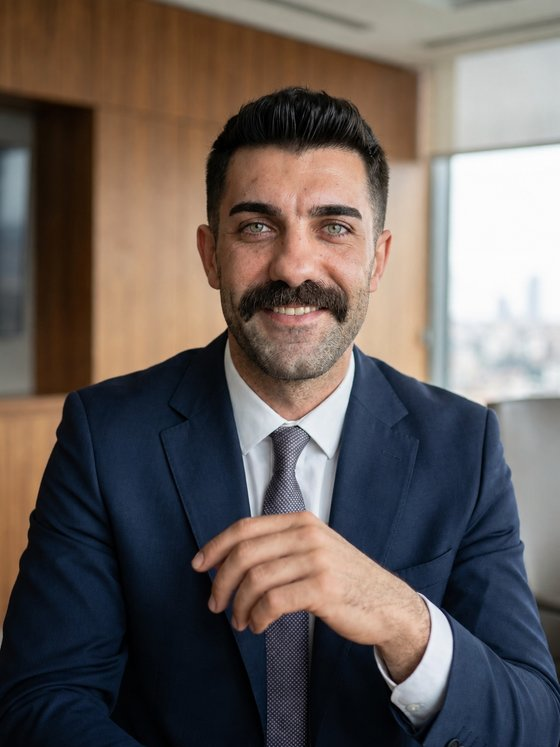
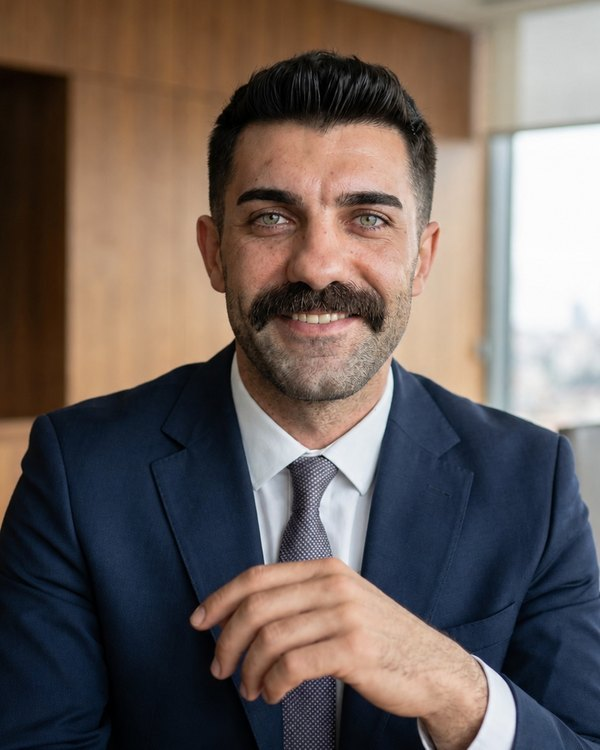
Dolu çok-bölümlü ana sayfa + board foto eşitleme + KEP gizle
- index.html: index-dolu (nav kısa yolları + kategoriler→referanslar#[sektör] + m²/ticker + iletişim + maskot widget tek kopya); self-host font, base64→assets (logo-mark 25KB), schema+adres, favicon
- yonetim: yeni muhammed.jpg + emin.jpg (600x750 eşitlenmiş) assets'e; Ali aynı; markup değişmedi
- KVKK: KEP adresi görünürden kaldırıldı (resmi belgede var); ünvan/MERSİS/sicil/adres/tel kaldı
- Harici çağrı yok, widget 7 sayfada tek kopya
- DOKUNMADIM: main (Patron onayı bekliyor)

diff --git a/index.html b/index.html
@@ -1,26 +1,18 @@
 <!DOCTYPE html>
-<html lang="tr">
-<head>
-<meta charset="UTF-8">
-<meta name="viewport" content="width=device-width, initial-scale=1.0">
-<title>Kurtköy &amp; Pendik Mekanik Tesisat, Doğalgaz ve İnşaat | Aldemir Grup</title>
-<meta name="description" content="Kurtköy & Pendik mekanik tesisat, doğalgaz, karot ve beton kesme. Daire, villa, plaza, otel, AVM ve fabrika projeleri. Aldemir Grup.">
-<meta name="theme-color" content="#15212B">
+<html lang="tr"><head><meta charset="UTF-8"><meta name="viewport" content="width=device-width, initial-scale=1.0">
+<title>Kurtköy & Pendik Mekanik Tesisat, Doğalgaz ve İnşaat | Aldemir Grup</title>
+<meta name="description" content="Kurtköy & Pendik mekanik tesisat, doğalgaz, su tesisatı, karot ve beton kesme. Daire, villa, plaza, otel, AVM ve fabrika projeleri. Aldemir Grup İnşaat · Mühendislik.">
 <link rel="canonical" href="https://aldemirglobal.com/">
-<meta property="og:type" content="website">
-<meta property="og:url" content="https://aldemirglobal.com/">
-<meta property="og:locale" content="tr_TR">
-<meta property="og:title" content="Kurtköy & Pendik Mekanik Tesisat, Doğalgaz ve İnşaat | Aldemir Grup">
-<meta property="og:description" content="Kurtköy & Pendik mekanik tesisat, doğalgaz, karot ve beton kesme. Aldemir Grup.">
-<meta property="og:image" content="https://aldemirglobal.com/assets/og-image.png">
-<meta property="og:image:width" content="1200">
-<meta property="og:image:height" content="630">
-<meta name="twitter:card" content="summary_large_image">
-<link rel="icon" href="/favicon.ico" sizes="any">
-<link rel="icon" type="image/png" href="/assets/favicon-48.png" sizes="48x48">
-<link rel="apple-touch-icon" href="/assets/apple-touch-icon.png">
+<meta name="robots" content="index,follow"><meta name="geo.region" content="TR"><meta name="theme-color" content="#1B2A36">
+<meta property="og:type" content="website"><meta property="og:locale" content="tr_TR">
+<meta property="og:title" content="Aldemir Grup · İnşaat · Mühendislik"><meta property="og:image" content="https://aldemirglobal.com/assets/og-image.png">
+
+
+<script type="application/ld+json">
+{"@context":"https://schema.org","@type":"GeneralContractor","name":"Aldemir Grup","legalName":"MSN Gayrimenkul Danışmanlık Turizm Ticaret Limited Şirketi","url":"https://aldemirglobal.com","telephone":"+90 534 839 78 83","email":"[email redacted]","image":"https://aldemirglobal.com/assets/og-image.png","address":{"@type":"PostalAddress","streetAddress":"Harmandere Mah. Ankara Cad. E Blok No:453E İç Kapı No:1","addressLocality":"Pendik","addressRegion":"İstanbul","addressCountry":"TR"},"areaServed":[{"@type":"Place","name":"Kurtköy"},{"@type":"Place","name":"Pendik"},{"@type":"Place","name":"İstanbul Anadolu Yakası"},{"@type":"Country","name":"Türkiye"}]}
+</script>
 <style>
-/* Self-host fontlar — Google Fonts CDN kaldırıldı (KVKK: yurt dışı aktarım yok) */
+/* Self-host fontlar (Google CDN kaldırıldı) */
 @font-face{font-family:'Montserrat';font-style:normal;font-weight:300;font-display:swap;src:url('/assets/fonts/montserrat-300-latin.woff2') format('woff2');unicode-range:U+0000-00FF,U+0131,U+0152-0153,U+02BB-02BC,U+02C6,U+02DA,U+02DC,U+0304,U+0308,U+0329,U+2000-206F,U+2074,U+20AC,U+2122,U+2191,U+2193,U+2212,U+2215,U+FEFF,U+FFFD;}
 @font-face{font-family:'Montserrat';font-style:normal;font-weight:300;font-display:swap;src:url('/assets/fonts/montserrat-300-latin-ext.woff2') format('woff2');unicode-range:U+0100-02BA,U+02BD-02C5,U+02C7-02CC,U+02CE-02D7,U+02DD-02FF,U+0304,U+0308,U+0329,U+1D00-1DBF,U+1E00-1E9F,U+1EF2-1EFF,U+2020,U+20A0-20AB,U+20AD-20C0,U+2113,U+2C60-2C7F,U+A720-A7FF;}
 @font-face{font-family:'Montserrat';font-style:normal;font-weight:400;font-display:swap;src:url('/assets/fonts/montserrat-400-latin.woff2') format('woff2');unicode-range:U+0000-00FF,U+0131,U+0152-0153,U+02BB-02BC,U+02C6,U+02DA,U+02DC,U+0304,U+0308,U+0329,U+2000-206F,U+2074,U+20AC,U+2122,U+2191,U+2193,U+2212,U+2215,U+FEFF,U+FFFD;}
@@ -35,110 +27,209 @@
 @font-face{font-family:'Montserrat';font-style:normal;font-weight:800;font-display:swap;src:url('/assets/fonts/montserrat-800-latin-ext.woff2') format('woff2');unicode-range:U+0100-02BA,U+02BD-02C5,U+02C7-02CC,U+02CE-02D7,U+02DD-02FF,U+0304,U+0308,U+0329,U+1D00-1DBF,U+1E00-1E9F,U+1EF2-1EFF,U+2020,U+20A0-20AB,U+20AD-20C0,U+2113,U+2C60-2C7F,U+A720-A7FF;}
 @font-face{font-family:'Cormorant';font-style:normal;font-weight:500;font-display:swap;src:url('/assets/fonts/cormorant-500-latin.woff2') format('woff2');unicode-range:U+0000-00FF,U+0131,U+0152-0153,U+02BB-02BC,U+02C6,U+02DA,U+02DC,U+0304,U+0308,U+0329,U+2000-206F,U+2074,U+20AC,U+2122,U+2191,U+2193,U+2212,U+2215,U+FEFF,U+FFFD;}
 @font-face{font-family:'Cormorant';font-style:normal;font-weight:500;font-display:swap;src:url('/assets/fonts/cormorant-500-latin-ext.woff2') format('woff2');unicode-range:U+0100-02BA,U+02BD-02C5,U+02C7-02CC,U+02CE-02D7,U+02DD-02FF,U+0304,U+0308,U+0329,U+1D00-1DBF,U+1E00-1E9F,U+1EF2-1EFF,U+2020,U+20A0-20AB,U+20AD-20C0,U+2113,U+2C60-2C7F,U+A720-A7FF;}
+@font-face{font-family:'Cormorant';font-style:normal;font-weight:600;font-display:swap;src:url('/assets/fonts/cormorant-600-latin.woff2') format('woff2');unicode-range:U+0000-00FF,U+0131,U+0152-0153,U+02BB-02BC,U+02C6,U+02DA,U+02DC,U+0304,U+0308,U+0329,U+2000-206F,U+2074,U+20AC,U+2122,U+2191,U+2193,U+2212,U+2215,U+FEFF,U+FFFD;}
+@font-face{font-family:'Cormorant';font-style:normal;font-weight:600;font-display:swap;src:url('/assets/fonts/cormorant-600-latin-ext.woff2') format('woff2');unicode-range:U+0100-02BA,U+02BD-02C5,U+02C7-02CC,U+02CE-02D7,U+02DD-02FF,U+0304,U+0308,U+0329,U+1D00-1DBF,U+1E00-1E9F,U+1EF2-1EFF,U+2020,U+20A0-20AB,U+20AD-20C0,U+2113,U+2C60-2C7F,U+A720-A7FF;}
 @font-face{font-family:'Cormorant';font-style:italic;font-weight:500;font-display:swap;src:url('/assets/fonts/cormorant-500i-latin.woff2') format('woff2');unicode-range:U+0000-00FF,U+0131,U+0152-0153,U+02BB-02BC,U+02C6,U+02DA,U+02DC,U+0304,U+0308,U+0329,U+2000-206F,U+2074,U+20AC,U+2122,U+2191,U+2193,U+2212,U+2215,U+FEFF,U+FFFD;}
 @font-face{font-family:'Cormorant';font-style:italic;font-weight:500;font-display:swap;src:url('/assets/fonts/cormorant-500i-latin-ext.woff2') format('woff2');unicode-range:U+0100-02BA,U+02BD-02C5,U+02C7-02CC,U+02CE-02D7,U+02DD-02FF,U+0304,U+0308,U+0329,U+1D00-1DBF,U+1E00-1E9F,U+1EF2-1EFF,U+2020,U+20A0-20AB,U+20AD-20C0,U+2113,U+2C60-2C7F,U+A720-A7FF;}
 
-:root{--paper:#F6F2E9;--navy:#1B2A36;--navy2:#23323D;--antrasit:#15212B;--gold:#C9A876;--gold-lt:#E4C78E;--bronz:#6E5436;--line-d:rgba(228,199,142,.18);--gold-grad:linear-gradient(135deg,#E4C78E 0%,#C9A876 100%)}
-*{margin:0;padding:0;box-sizing:border-box}
-body{font-family:'Montserrat',sans-serif;background:var(--antrasit);color:var(--paper);-webkit-font-smoothing:antialiased;line-height:1.6;min-height:100dvh;display:flex;flex-direction:column}
-::selection{background:var(--gold);color:var(--navy)}
-a{color:inherit;text-decoration:none}
-.stage{flex:1;display:flex;flex-direction:column;align-items:center;justify-content:center;text-align:center;padding:44px 24px 30px;position:relative;overflow:hidden;background:radial-gradient(ellipse 72% 62% at 50% 30%,#243643 0%,#1B2A36 64%,#15212B 100%)}
-.stage::before{content:'';position:absolute;inset:0;background-image:linear-gradient(var(--line-d) 1px,transparent 1px),linear-gradient(90deg,var(--line-d) 1px,transparent 1px);background-size:64px 64px;-webkit-mask-image:radial-gradient(ellipse 64% 60% at 50% 34%,#000,transparent 78%);mask-image:radial-gradient(ellipse 64% 60% at 50% 34%,#000,transparent 78%);opacity:.45}
-.inner{position:relative;z-index:2;max-width:760px;width:100%}
-.badge{display:inline-flex;align-items:center;gap:9px;font-size:11px;letter-spacing:.26em;text-transform:uppercase;font-weight:600;color:var(--gold-lt);background:rgba(201,168,118,.1);border:1px solid rgba(201,168,118,.38);padding:7px 16px;border-radius:40px;margin-bottom:26px}
-.badge .dot{width:8px;height:8px;border-radius:50%;background:var(--gold-grad);animation:pulse 2.2s infinite}
-@keyframes pulse{0%{box-shadow:0 0 0 0 rgba(201,168,118,.55)}70%{box-shadow:0 0 0 9px rgba(201,168,118,0)}100%{box-shadow:0 0 0 0 rgba(201,168,118,0)}}
-.logo{width:min(300px,62vw);margin:0 auto 24px;filter:drop-shadow(0 16px 40px rgba(0,0,0,.55));animation:floaty 7s ease-in-out infinite}
-@keyframes floaty{0%,100%{transform:translateY(0)}50%{transform:translateY(-8px)}}
-
-/* USTA KARŞILAMA */
-.usta{display:flex;align-items:center;gap:22px;justify-content:center;background:rgba(35,50,61,.5);border:1px solid var(--line-d);border-radius:14px;padding:18px 24px;max-width:560px;margin:0 auto 26px;text-align:left;position:relative}
-.usta::before{content:'';position:absolute;top:0;left:0;width:100%;height:3px;background:var(--gold-grad);border-radius:14px 14px 0 0}
-.usta .ph{width:84px;height:84px;border-radius:50%;overflow:hidden;flex-shrink:0;border:2px solid var(--gold);background:radial-gradient(circle,#2b3d4a,#1B2A36);display:flex;align-items:center;justify-content:center;position:relative}
-.usta .ph img{width:100%;height:100%;object-fit:cover;object-position:center 20%}
-.usta .ph svg{width:46px;height:46px;color:var(--gold);opacity:.6}
-.usta .ph .tag{position:absolute;bottom:-1px;left:0;width:100%;font-size:7px;letter-spacing:.06em;text-transform:uppercase;color:var(--gold-lt);background:rgba(15,20,25,.8);padding:2px 0;text-align:center}
-.usta .say .hi{font-family:'Cormorant';font-style:italic;font-size:16px;color:var(--gold-lt)}
-.usta .say p{font-size:14px;color:rgba(246,242,233,.85);font-weight:300;margin-top:3px}
-.usta .say p b{color:var(--paper);font-weight:600}
-
+:root{--paper:#F6F2E9;--white:#FCFAF5;--navy:#1B2A36;--navy2:#23323D;--antrasit:#15212B;--ink:#15212B;--gold:#C9A876;--gold-lt:#E4C78E;--bronz:#6E5436;--line:rgba(27,42,54,.10);--line-d:rgba(228,199,142,.18);--gold-grad:linear-gradient(135deg,#E4C78E 0%,#C9A876 100%)}
+*{margin:0;padding:0;box-sizing:border-box}html{scroll-behavior:smooth}
+body{font-family:'Montserrat',sans-serif;background:var(--paper);color:var(--ink);-webkit-font-smoothing:antialiased;line-height:1.65;overflow-x:hidden}
+::selection{background:var(--gold);color:var(--navy)}a{color:inherit;text-decoration:none}
+.wrap{max-width:1120px;margin:0 auto;padding:0 34px}
+.gold-text{background:var(--gold-grad);-webkit-background-clip:text;background-clip:text;-webkit-text-fill-color:transparent}
+.eyebrow{font-size:11px;letter-spacing:.4em;text-transform:uppercase;color:var(--bronz);font-weight:600}
+.stripe{width:74px;height:8px;position:relative;margin:16px 0}
+.stripe::before{content:'';position:absolute;top:0;left:0;width:74px;height:2px;background:var(--gold-grad)}
+.stripe::after{content:'';position:absolute;top:5px;left:0;width:44px;height:2px;background:var(--navy)}
+.stripe.on-dark::after{background:rgba(246,242,233,.5)}.stripe.center{margin-left:auto;margin-right:auto}
+/* NAV — her yöne kısa yol */
+nav{position:sticky;top:0;z-index:50;display:flex;align-items:center;justify-content:space-between;padding:12px 34px;background:rgba(21,33,43,.95);backdrop-filter:blur(12px);border-bottom:1px solid var(--line-d)}
+nav .brand{display:flex;align-items:center;gap:10px;font-weight:800;letter-spacing:.14em;font-size:13px;color:var(--paper)}
+nav .brand img{height:34px}nav .brand small{display:block;font-weight:500;font-size:8px;letter-spacing:.24em;color:var(--gold);margin-top:1px}
+nav ul{display:flex;gap:26px;list-style:none;align-items:center}
+nav ul a{font-size:12px;letter-spacing:.1em;text-transform:uppercase;font-weight:500;color:var(--paper);opacity:.78;transition:.2s;position:relative}
+nav ul a:hover{opacity:1;color:var(--gold-lt)}
+nav ul a::after{content:'';position:absolute;left:0;bottom:-5px;width:0;height:1.5px;background:var(--gold-grad);transition:.25s}
+nav ul a:hover::after{width:100%}
+.nav-r{display:flex;align-items:center;gap:14px}
+.btn{font-size:12px;letter-spacing:.12em;text-transform:uppercase;font-weight:700;padding:11px 22px;border-radius:3px;cursor:pointer;transition:.25s;display:inline-block}
+.btn-gold{background:var(--gold-grad);color:var(--navy)}.btn-gold:hover{filter:brightness(1.06);transform:translateY(-2px)}
+.menu-btn{display:none;background:none;border:none;color:var(--paper);font-size:24px;cursor:pointer}
+/* HERO */
+.hero{background:radial-gradient(ellipse 72% 68% at 50% 30%,#243643,#1B2A36 70%,#15212B);color:var(--paper);text-align:center;padding:70px 24px 76px;position:relative;overflow:hidden}
+.hero::before{content:'';position:absolute;inset:0;background-image:linear-gradient(var(--line-d) 1px,transparent 1px),linear-gradient(90deg,var(--line-d) 1px,transparent 1px);background-size:64px 64px;-webkit-mask-image:radial-gradient(ellipse 62% 62% at 50% 32%,#000,transparent 78%);mask-image:radial-gradient(ellipse 62% 62% at 50% 32%,#000,transparent 78%);opacity:.4}
+.hero-in{position:relative;z-index:2;max-width:720px;margin:0 auto}
+.hero-logo{width:min(300px,64vw);filter:drop-shadow(0 16px 40px rgba(0,0,0,.55));animation:fl 7s ease-in-out infinite}
+@keyframes fl{0%,100%{transform:translateY(0)}50%{transform:translateY(-9px)}}
+.hero h1{font-family:'Cormorant';font-style:italic;font-weight:500;font-size:clamp(20px,3vw,30px);color:var(--gold-lt);margin:14px 0 4px}
+.hero .tag{font-size:12px;letter-spacing:.28em;text-transform:uppercase;opacity:.66}
+.hero-cta{display:flex;gap:14px;justify-content:center;margin-top:34px;flex-wrap:wrap}
+.btn-ghost-d{background:transparent;border:1.5px solid rgba(228,199,142,.5);color:var(--gold-lt);font-size:12px;letter-spacing:.12em;text-transform:uppercase;font-weight:700;padding:13px 24px;border-radius:3px;transition:.25s}
+.btn-ghost-d:hover{background:rgba(228,199,142,.1)}
+/* SECTION */
+section{padding:88px 0;position:relative}
+.sec-head{text-align:center;max-width:640px;margin:0 auto 46px}
+.sec-head h2{font-weight:800;font-size:clamp(24px,3.4vw,38px);text-transform:uppercase;color:var(--navy);line-height:1.12;margin-top:8px}
+.sec-head p{font-size:15px;color:#46545f;font-weight:300;margin-top:12px}
 /* KATEGORİLER */
-.catlabel{font-size:10px;letter-spacing:.28em;text-transform:uppercase;color:var(--gold);font-weight:600;margin-bottom:14px}
-.cats{display:flex;flex-wrap:wrap;gap:9px;justify-content:center;max-width:640px;margin:0 auto 8px}
-.cat{font-size:12.5px;font-weight:500;color:var(--paper);background:rgba(201,168,118,.08);border:1px solid rgba(201,168,118,.3);padding:9px 17px;border-radius:24px;transition:.2s}
-.cat:hover{background:var(--gold-grad);color:var(--navy);border-color:transparent;transform:translateY(-2px)}
-.cat.svc{background:transparent;border-style:dashed;color:var(--gold-lt)}
+#alanlar{background:var(--white);border-bottom:1px solid var(--line)}
+.cats{display:grid;grid-template-columns:repeat(auto-fill,minmax(200px,1fr));gap:16px}
+.cat{background:var(--paper);border:1px solid var(--line);border-radius:8px;padding:26px 22px;text-align:center;transition:.3s;position:relative;overflow:hidden}
+.cat::before{content:'';position:absolute;top:0;left:0;width:100%;height:3px;background:var(--gold-grad);transform:scaleX(0);transform-origin:left;transition:.35s}
+.cat:hover{transform:translateY(-6px);box-shadow:0 18px 40px rgba(27,42,54,.13);border-color:transparent}
+.cat:hover::before{transform:scaleX(1)}
+.cat .ic{width:44px;height:44px;color:var(--bronz);margin-bottom:14px}
+.cat h3{font-weight:700;font-size:16px;color:var(--navy);letter-spacing:.03em}
+.cat .go{display:block;font-size:11px;color:var(--gold);margin-top:10px;opacity:0;transition:.3s;font-weight:600}
+.cat:hover .go{opacity:1}
+.svc-line{display:flex;flex-wrap:wrap;gap:9px;justify-content:center;margin-top:24px}
+.svc{font-size:12.5px;color:var(--navy);background:transparent;border:1px dashed var(--gold);padding:8px 15px;border-radius:22px;font-weight:500}
+/* RAKAMLAR */
+#rakam{background:linear-gradient(135deg,var(--navy),var(--navy2));color:var(--paper);text-align:center}
+.big{font-weight:800;font-size:clamp(52px,10vw,120px);line-height:.9;letter-spacing:-.03em}
+.unit{font-family:'Cormorant';font-style:italic;font-size:clamp(26px,5vw,50px);color:var(--gold);margin-left:6px}
+.cap{font-size:12px;letter-spacing:.24em;text-transform:uppercase;color:var(--gold-lt);margin-top:16px;font-weight:600}
+.subm{display:grid;grid-template-columns:repeat(3,1fr);gap:1px;background:var(--line-d);border:1px solid var(--line-d);margin-top:48px;max-width:720px;margin-left:auto;margin-right:auto}
+.subm div{background:var(--navy);padding:24px 14px}.subm b{display:block;font-weight:800;font-size:28px}.subm span{font-size:10.5px;letter-spacing:.14em;text-transform:uppercase;color:rgba(246,242,233,.6);margin-top:6px;display:block}
+.note{text-align:center;margin-top:22px;font-size:11px;color:rgba(246,242,233,.45)}
+/* TICKER */
+#devam{background:#15212B;color:var(--paper);padding:0}
+.th{padding:60px 0 26px;text-align:center}.th .eyebrow{color:var(--gold)}.th h2{font-weight:800;font-size:clamp(22px,3vw,34px);text-transform:uppercase;margin-top:8px}
+.ticker{border-top:1px solid var(--line-d);border-bottom:1px solid var(--line-d);overflow:hidden;white-space:nowrap;padding:16px 0;background:#12191F}
+.trow{display:inline-flex;animation:scx 36s linear infinite}.ticker:hover .trow{animation-play-state:paused}
+.ti{display:inline-flex;align-items:center;gap:11px;padding:0 28px;border-right:1px solid var(--line-d);font-size:13.5px}
+.ti b{color:var(--paper);font-weight:600}.ti .lo{color:#7d8b94;font-weight:300}.ti .m2{font-variant-numeric:tabular-nums;color:var(--gold-lt);font-weight:600}.ti .up{color:#6FCF97;font-size:11px}.ti .st{font-size:10px;letter-spacing:.16em;text-transform:uppercase;color:var(--gold);font-weight:600}
+@keyframes scx{from{transform:translateX(0)}to{transform:translateX(-50%)}}
+.tf{padding:26px 0 60px;text-align:center}.tf a{color:var(--gold-lt);font-size:13px;letter-spacing:.06em;border-bottom:1px solid var(--gold)}
+/* İLETİŞİM */
+#iletisim{background:var(--paper);text-align:center}
+.cbtns{display:flex;gap:14px;justify-content:center;flex-wrap:wrap;margin-top:8px}
+.cinfo{display:flex;gap:40px;justify-content:center;flex-wrap:wrap;margin-top:34px}
+.cinfo a{display:flex;flex-direction:column;gap:3px}.cinfo .k{font-size:10px;letter-spacing:.2em;text-transform:uppercase;color:var(--bronz)}.cinfo .v{font-size:16px;font-weight:600;color:var(--navy)}
+/* FOOTER */
+footer{background:var(--antrasit);color:var(--paper);text-align:center;padding:50px 16px 30px;border-top:1px solid var(--line-d)}
+footer img{height:54px;margin-bottom:14px;filter:drop-shadow(0 6px 16px rgba(0,0,0,.5))}
+footer .fn{font-weight:800;letter-spacing:.2em;font-size:14px}footer .fs{font-size:10px;letter-spacing:.2em;text-transform:uppercase;color:#7d8b94;margin-top:5px}
+footer .flinks{display:flex;gap:20px;justify-content:center;margin:20px 0;flex-wrap:wrap}footer .flinks a{font-size:11px;letter-spacing:.1em;text-transform:uppercase;color:rgba(246,242,233,.6)}footer .flinks a:hover{color:var(--gold-lt)}
+footer .legal{font-size:10.5px;color:#5e6c75;margin-top:8px}
+footer .root-mark{margin-top:14px;font-family:'Cormorant';font-style:italic;font-size:11.5px;color:rgba(201,168,118,.3);letter-spacing:.18em}
+.reveal{opacity:0;transform:translateY(24px);transition:.7s cubic-bezier(.2,.7,.2,1)}.reveal.in{opacity:1;transform:none}
+@media(max-width:860px){nav ul{display:none}.menu-btn{display:block}.subm{grid-template-columns:1fr}section{padding:60px 0}.wrap{padding:0 20px}}
+@media(prefers-reduced-motion:reduce){*{animation:none!important;transition:none!important}.reveal{opacity:1;transform:none}.trow{animation:none!important}}
+</style><meta property="og:url" content="https://aldemirglobal.com/">
+<meta property="og:description" content="Kurtköy & Pendik mekanik tesisat, doğalgaz, karot ve beton kesme.">
+<link rel="icon" href="/favicon.ico" sizes="any">
+<link rel="icon" type="image/png" href="/assets/favicon-48.png" sizes="48x48">
+<link rel="apple-touch-icon" href="/assets/apple-touch-icon.png">
+</head><body>
+<nav>
+  <a href="/" class="brand"><img src="/assets/logo-mark.png" alt="Aldemir Grup"><span>ALDEMİR GRUP<small>İNŞAAT · MÜHENDİSLİK</small></span></a>
+  <ul>
+    <li><a href="hizmetler.html">Hizmetler</a></li>
+    <li><a href="referanslar.html">Yaptığımız İşler</a></li>
+    <li><a href="yonetim-kurulu.html">Yönetim Kurulu</a></li>
+    <li><a href="#iletisim">İletişim</a></li>
+  </ul>
+  <div class="nav-r">
+    <a href="#iletisim" class="btn btn-gold">Teklif Al</a>
+    <button class="menu-btn" onclick="var u=document.querySelector('nav ul');u.style.display=u.style.display==='flex'?'none':'flex'">☰</button>
+  </div>
+</nav>
 
-.stripe{width:80px;height:8px;position:relative;margin:28px auto 24px}
-.stripe::before{content:'';position:absolute;top:0;left:0;width:80px;height:2px;background:var(--gold-grad)}
-.stripe::after{content:'';position:absolute;top:5px;left:50%;transform:translateX(-50%);width:48px;height:2px;background:rgba(246,242,233,.5)}
-
-.cta{display:flex;gap:13px;justify-content:center;flex-wrap:wrap}
-.btn{font-size:12.5px;letter-spacing:.1em;text-transform:uppercase;font-weight:700;padding:14px 26px;border-radius:3px;cursor:pointer;transition:.25s;border:1.5px solid transparent;display:inline-flex;align-items:center;gap:9px}
-.btn svg{width:16px;height:16px}
-.btn-gold{background:var(--gold-grad);color:var(--navy)}
-.btn-gold:hover{filter:brightness(1.06);transform:translateY(-2px);box-shadow:0 10px 26px rgba(201,168,118,.32)}
-.btn-ghost{background:transparent;border-color:rgba(228,199,142,.5);color:var(--gold-lt)}
-.btn-ghost:hover{background:rgba(228,199,142,.1);transform:translateY(-2px)}
-
-.contact{display:flex;gap:28px;justify-content:center;flex-wrap:wrap;margin-top:34px;padding-top:26px;border-top:1px solid var(--line-d)}
-.contact a{display:flex;flex-direction:column;align-items:center;gap:4px;transition:.2s}
-.contact a:hover{transform:translateY(-2px)}
-.contact .k{font-size:9.5px;letter-spacing:.2em;text-transform:uppercase;color:var(--gold);opacity:.85}
-.contact .v{font-size:14px;font-weight:600;color:var(--paper)}
-
-footer{text-align:center;padding:22px 16px 26px;position:relative;z-index:2;background:var(--antrasit)}
-footer .fn{font-weight:800;letter-spacing:.2em;font-size:12px;color:var(--gold)}
-footer .legal{font-size:10px;color:#6c7984;margin-top:7px}
-footer .root-mark{margin-top:12px;font-family:'Cormorant',serif;font-style:italic;font-size:11.5px;color:rgba(201,168,118,.3);letter-spacing:.18em}
-@media(max-width:600px){.usta{flex-direction:column;text-align:center;gap:14px}}
-@media(prefers-reduced-motion:reduce){*{animation:none!important}}
-</style>
-<script type="application/ld+json">
-{"@context":"https://schema.org","@type":"Organization","name":"Aldemir Grup","legalName":"MSN Gayrimenkul Danışmanlık Turizm Ticaret Limited Şirketi","url":"https://aldemirglobal.com","logo":"https://aldemirglobal.com/assets/logo.png","image":"https://aldemirglobal.com/assets/og-image.png","email":"[email redacted]","telephone":"+90 534 839 78 83","address":{"@type":"PostalAddress","streetAddress":"Harmandere Mah. Ankara Cad. E Blok No:453E İç Kapı No:1","addressLocality":"Pendik","addressRegion":"İstanbul","addressCountry":"TR"},"areaServed":[{"@type":"Place","name":"Kurtköy"},{"@type":"Place","name":"Pendik"},{"@type":"Place","name":"İstanbul Anadolu Yakası"},{"@type":"Country","name":"Türkiye"}]}
-</script>
-</head>
-<body>
-<main class="stage">
-  <div class="inner">
-    <img class="logo" src="/assets/logo.png" width="700" height="633" alt="Aldemir Grup İnşaat · Mühendislik A.Ş.">
-
-    <!-- KATEGORİLER -->
-    <div class="catlabel">Çalışma Alanlarımız</div>
-    <div class="cats">
-      <a class="cat" href="referanslar.html#daire">Daire</a><a class="cat" href="referanslar.html#villa">Villa</a><a class="cat" href="referanslar.html#rezidans">Rezidans</a>
-      <a class="cat" href="referanslar.html#plaza">Plaza</a><a class="cat" href="referanslar.html#otel">Otel</a><a class="cat" href="referanslar.html#avm">AVM</a><a class="cat" href="referanslar.html#fabrika">Fabrika</a>
+<header class="hero">
+  <div class="hero-in">
+    <img class="hero-logo" src="/assets/logo.png" alt="Aldemir Grup İnşaat · Mühendislik">
+    <h1>Daireden fabrikaya, ustalıkla.</h1>
+    <p class="tag">Kurtköy · Pendik · Anadolu Yakası — Tüm Türkiye</p>
+    <div class="stripe center on-dark"></div>
+    <div class="hero-cta">
+      <a href="#iletisim" class="btn btn-gold">Teklif Al</a>
+      <a href="#alanlar" class="btn-ghost-d">Çalışma Alanlarımız</a>
     </div>
-    <div class="cats">
-      <a class="cat svc" href="hizmetler.html">Mekanik Tesisat</a><a class="cat svc" href="hizmetler.html#tesisat-bakim">Doğalgaz</a><a class="cat svc" href="hizmetler.html#karot-hizmetleri">Karot & Beton Kesme</a>
-    </div>
+  </div>
+</header>
 
-    <div class="stripe"></div>
-    <div class="cta">
-      <a class="btn btn-gold" href="tel:+905348397883"><svg viewBox="0 0 24 24" fill="none" stroke="currentColor" stroke-width="1.8"><path d="M22 16.9v3a2 2 0 0 1-2.2 2 19.8 19.8 0 0 1-8.6-3.1 19.5 19.5 0 0 1-6-6A19.8 19.8 0 0 1 2.1 4.2 2 2 0 0 1 4.1 2h3a2 2 0 0 1 2 1.7c.1 1 .4 1.9.7 2.8a2 2 0 0 1-.5 2.1L8.1 9.9a16 16 0 0 0 6 6l1.3-1.3a2 2 0 0 1 2.1-.4c.9.3 1.8.6 2.8.7a2 2 0 0 1 1.7 2z"/></svg>Bizi Arayın</a>
-      <a class="btn btn-ghost" href="mailto:[email redacted]"><svg viewBox="0 0 24 24" fill="none" stroke="currentColor" stroke-width="1.8"><path d="M4 4h16v16H4zM4 6l8 6 8-6"/></svg>E-posta Gönder</a>
-    </div>
+<section id="alanlar">
+  <div class="wrap">
+    <div class="sec-head reveal"><p class="eyebrow">Çalışma Alanlarımız</p><h2>Hangi Yapılarda Çalışıyoruz?</h2><div class="stripe center"></div><p>Her karta tıklayın, o alandaki referans projelerimize ulaşın.</p></div>
+    <div class="cats reveal"><a class="cat" href="referanslar.html#daire">
+  <svg class="ic" viewBox="0 0 48 48" fill="none" stroke="currentColor" stroke-width="1.6" stroke-linejoin="round"><path d="M8 22L24 9l16 13M11 20v18h26V20M20 38V28h8v10"/></svg>
+  <h3>Daire</h3><span class="go">Projeleri Gör →</span></a><a class="cat" href="referanslar.html#villa">
+  <svg class="ic" viewBox="0 0 48 48" fill="none" stroke="currentColor" stroke-width="1.6" stroke-linejoin="round"><path d="M6 24l10-8 8 6 10-8v18H6zM6 40h36M14 24v16M30 22v18"/></svg>
+  <h3>Villa</h3><span class="go">Projeleri Gör →</span></a><a class="cat" href="referanslar.html#rezidans">
+  <svg class="ic" viewBox="0 0 48 48" fill="none" stroke="currentColor" stroke-width="1.6" stroke-linejoin="round"><path d="M10 42V8h12v34M26 42V16h12v26M14 14h4M14 20h4M14 26h4M30 22h4M30 28h4M6 42h36"/></svg>
+  <h3>Rezidans</h3><span class="go">Projeleri Gör →</span></a><a class="cat" href="referanslar.html#plaza">
+  <svg class="ic" viewBox="0 0 48 48" fill="none" stroke="currentColor" stroke-width="1.6" stroke-linejoin="round"><path d="M14 42V6h20v36M20 12h2M26 12h2M20 19h2M26 19h2M20 26h2M26 26h2M20 33h2M26 33h2M8 42h32"/></svg>
+  <h3>Plaza</h3><span class="go">Projeleri Gör →</span></a><a class="cat" href="referanslar.html#otel">
+  <svg class="ic" viewBox="0 0 48 48" fill="none" stroke="currentColor" stroke-width="1.6" stroke-linejoin="round"><path d="M10 42V18l14-9 14 9v24M16 26h4M28 26h4M16 33h4M28 33h4M22 9l2-4 2 4M6 42h36"/></svg>
+  <h3>Otel</h3><span class="go">Projeleri Gör →</span></a><a class="cat" href="referanslar.html#avm">
+  <svg class="ic" viewBox="0 0 48 48" fill="none" stroke="currentColor" stroke-width="1.6" stroke-linejoin="round"><path d="M8 16h32l-2 26H10zM8 16l3-8h26l3 8M18 22v4a6 6 0 0 0 12 0v-4"/></svg>
+  <h3>AVM</h3><span class="go">Projeleri Gör →</span></a><a class="cat" href="referanslar.html#fabrika">
+  <svg class="ic" viewBox="0 0 48 48" fill="none" stroke="currentColor" stroke-width="1.6" stroke-linejoin="round"><path d="M6 42V22l10 6V22l10 6V14h16v28M34 20v-6M30 42v-8h8v8M6 42h36"/></svg>
+  <h3>Fabrika</h3><span class="go">Projeleri Gör →</span></a></div>
+    <div class="svc-line reveal"><span class="svc">Mekanik Tesisat</span><span class="svc">Doğalgaz</span><span class="svc">Su Tesisatı</span><span class="svc">Karot & Beton Kesme</span><span class="svc">Kontrollü Yıkım</span></div>
+  </div>
+</section>
 
-    <div class="contact">
+<section id="rakam">
+  <div class="wrap">
+    <p class="eyebrow reveal" style="color:var(--gold)">Sahadaki İz</p>
+    <div class="stripe center on-dark reveal" style="margin-top:16px;margin-bottom:30px"></div>
+    <div class="reveal"><span class="big gold-text" data-count="250000">0</span><span class="unit">m²</span></div>
+    <p class="cap reveal">Bugüne kadar inşa edilen toplam alan — artmaya devam ediyor</p>
+    <div class="subm reveal">
+      <div><b class="gold-text" data-count="42">0</b><span>Tamamlanan Proje</span></div>
+      <div><b class="gold-text" data-count="6">0</b><span>Devam Eden Şantiye</span></div>
+      <div><b class="gold-text" data-count="7">0</b><span>Yapı Tipi</span></div>
+    </div>
+    <p class="note">Rakamlar örnektir · gerçek değerler girilecek</p>
+  </div>
+</section>
+
+<section id="devam">
+  <div class="th"><div class="wrap"><p class="eyebrow">Canlı Saha</p><h2>Devam Eden İşlerimiz</h2></div></div>
+  <div class="ticker"><div class="trow"><span class="ti"><b>Villa Projesi</b><span class="lo">Kurtköy</span><span class="m2">2.400 m²</span><span class="up">▲</span><span class="st">Devam</span></span><span class="ti"><b>Apartman Bloğu</b><span class="lo">Pendik</span><span class="m2">12.800 m²</span><span class="up">▲</span><span class="st">Devam</span></span><span class="ti"><b>Ofis Plaza</b><span class="lo">Kurtköy</span><span class="m2">24.500 m²</span><span class="up">▲</span><span class="st">Devam</span></span><span class="ti"><b>Butik Otel</b><span class="lo">Tuzla</span><span class="m2">8.200 m²</span><span class="up">▲</span><span class="st">Devam</span></span><span class="ti"><b>Üretim Tesisi</b><span class="lo">Gebze</span><span class="m2">31.000 m²</span><span class="up">▲</span><span class="st">Devam</span></span><span class="ti"><b>Konut Sitesi</b><span class="lo">Kartal</span><span class="m2">18.600 m²</span><span class="up">▲</span><span class="st">Devam</span></span><span class="ti"><b>Villa Projesi</b><span class="lo">Kurtköy</span><span class="m2">2.400 m²</span><span class="up">▲</span><span class="st">Devam</span></span><span class="ti"><b>Apartman Bloğu</b><span class="lo">Pendik</span><span class="m2">12.800 m²</span><span class="up">▲</span><span class="st">Devam</span></span><span class="ti"><b>Ofis Plaza</b><span class="lo">Kurtköy</span><span class="m2">24.500 m²</span><span class="up">▲</span><span class="st">Devam</span></span><span class="ti"><b>Butik Otel</b><span class="lo">Tuzla</span><span class="m2">8.200 m²</span><span class="up">▲</span><span class="st">Devam</span></span><span class="ti"><b>Üretim Tesisi</b><span class="lo">Gebze</span><span class="m2">31.000 m²</span><span class="up">▲</span><span class="st">Devam</span></span><span class="ti"><b>Konut Sitesi</b><span class="lo">Kartal</span><span class="m2">18.600 m²</span><span class="up">▲</span><span class="st">Devam</span></span></div></div>
+  <div class="tf"><div class="wrap"><a href="referanslar.html">Tüm işlerimizi görün →</a></div></div>
+</section>
+
+<section id="iletisim">
+  <div class="wrap">
+    <div class="sec-head reveal"><p class="eyebrow">Bilgi Al</p><h2>Projenizi Birlikte Kuralım</h2><div class="stripe center"></div><p>Keşif, teklif ve teknik danışmanlık için bir adım uzağınızdayız.</p></div>
+    <div class="cbtns reveal">
+      <a href="tel:+905348397883" class="btn btn-gold" style="padding:14px 28px">Bizi Arayın · 0534 839 78 83</a>
+      <a href="mailto:[email redacted]" class="btn" style="background:var(--navy);color:var(--paper);padding:14px 28px">E-posta Gönder</a>
+    </div>
+    <div class="cinfo reveal">
       <a href="tel:+905348397883"><span class="k">Telefon</span><span class="v">+90 534 839 78 83</span></a>
       <a href="mailto:[email redacted]"><span class="k">E-posta</span><span class="v">[email redacted]</span></a>
     </div>
   </div>
-</main>
+</section>
+
 <footer>
-  <div class="fn">ALDEMİR GRUP · İNŞAAT · MÜHENDİSLİK A.Ş.</div>
+  <img src="/assets/logo-mark.png" alt="Aldemir Grup">
+  <div class="fn gold-text">ALDEMİR GRUP</div><div class="fs">İnşaat · Mühendislik</div>
+  <div class="flinks"><a href="hizmetler.html">Hizmetler</a><a href="referanslar.html">Yaptığımız İşler</a><a href="yonetim-kurulu.html">Yönetim Kurulu</a><a href="kvkk.html">KVKK</a></div>
   <p class="legal">© <span id="yr"></span> Aldemir Grup · MSN Gayrimenkul Danışmanlık Turizm Tic. Ltd. Şti. · Tüm hakları saklıdır.</p>
-  <div class="root-mark" title="Zirve"><span class="h">39°42′K · 44°17′D · 5137</span></div>
+  <div class="root-mark">39°42′K · 44°17′D · 5137</div>
 </footer>
-<script>document.getElementById('yr').textContent=new Date().getFullYear();</script>
+
+<script>
+document.getElementById('yr').textContent=new Date().getFullYear();
+const io=new IntersectionObserver(e=>e.forEach(x=>{if(x.isIntersecting){x.target.classList.add('in');io.unobserve(x.target)}}),{threshold:.15});
+document.querySelectorAll('.reveal').forEach(el=>io.observe(el));
+const cio=new IntersectionObserver(e=>e.forEach(x=>{if(x.isIntersecting){cu(x.target);cio.unobserve(x.target)}}),{threshold:.5});
+document.querySelectorAll('[data-count]').forEach(el=>cio.observe(el));
+function cu(el){const t=+el.dataset.count,d=1500,s=performance.now();(function f(n){let p=Math.min((n-s)/d,1);p=1-Math.pow(1-p,3);el.textContent=Math.floor(t*p).toLocaleString('tr-TR');if(p<1)requestAnimationFrame(f)})(performance.now())}
+</script>
 <!-- ═══ ALDEMİR GRUP · SABİT TEKLİF AL / DESTEK WIDGET ═══
      Tüm sayfalara </body> öncesine. Buton görseli: assets/mascot-fab.png · panel avatarı: assets/mascot-face.png -->
 <div id="ag-fab-wrap">
   <div id="ag-panel" role="dialog" aria-label="Teklif ve Destek">
     <div class="ag-head">
       <img class="ag-ava" src="/assets/mascot-face.png" alt="Aldemir Grup">
-      <div><div class="ag-name">Aldemir Grup</div><div class="ag-status"><span class="ag-dot"></span>Genelde hızlı döneriz</div></div>
+      <div><div class="ag-name">Aldemir Grup</div><div class="ag-status"><span class="ag-dot"></span>Çevrimiçi · genelde hızlı döneriz</div></div>
       <button class="ag-x" onclick="agToggle(false)" aria-label="Kapat">×</button>
     </div>
     <div class="ag-body">
@@ -171,7 +262,7 @@ footer .root-mark{margin-top:12px;font-family:'Cormorant',serif;font-style:itali
 .ag-ava{width:46px;height:46px;border-radius:50%;object-fit:cover;object-position:center top;border:2px solid #C9A876;background:#1B2A36}
 .ag-name{font-weight:800;font-size:14px;letter-spacing:.06em}
 .ag-status{font-size:10.5px;color:rgba(246,242,233,.7);display:flex;align-items:center;gap:6px;margin-top:2px}
-.ag-dot{width:7px;height:7px;border-radius:50%;background:#C9A876;box-shadow:0 0 6px rgba(201,168,118,.75)}
+.ag-dot{width:7px;height:7px;border-radius:50%;background:#6FCF97;box-shadow:0 0 6px #6FCF97}
 .ag-x{margin-left:auto;background:none;border:none;color:rgba(246,242,233,.6);font-size:22px;line-height:1;cursor:pointer}
 .ag-x:hover{color:#F6F2E9}
 .ag-body{padding:16px}
@@ -187,5 +278,4 @@ function agToggle(force){var p=document.getElementById('ag-panel');var o=(force=
 document.addEventListener('click',function(e){var w=document.getElementById('ag-fab-wrap');if(w&&!w.contains(e.target))document.getElementById('ag-panel').classList.remove('open');});
 </script>
 <!-- ═══ WIDGET SONU ═══ -->
-</body>
-</html>
+</body></html>

diff --git a/kvkk.html b/kvkk.html
@@ -69,7 +69,6 @@
       <tr><th>MERSİS No</th><td>0623198741200001</td></tr>
       <tr><th>Ticaret Sicil No</th><td>443139-5</td></tr>
       <tr><th>Vergi Dairesi / VKN</th><td><span class="ph">[Vergi dairesi · VKN]</span></td></tr>
-      <tr><th>KEP Adresi</th><td><span class="ph">[KEP adresi]</span></td></tr>
       <tr><th>Telefon</th><td><a href="tel:+905348397883">0534 839 78 83</a></td></tr>
       <tr><th>E-posta</th><td><a href="mailto:[email redacted]">[email redacted]</a></td></tr>
       <tr><th>Web</th><td>aldemirglobal.com</td></tr>
@@ -145,7 +144,6 @@
   <ul>
     <li><strong>E-posta:</strong> <a href="mailto:[email redacted]">[email redacted]</a>
       <span class="ph">(veya [email redacted])</span></li>
-    <li><strong>KEP:</strong> <span class="ph">[KEP adresi]</span></li>
     <li><strong>Posta:</strong> Harmandere Mah. Ankara Cad. E Blok No:453E İç Kapı No:1, Pendik / İstanbul</li>
   </ul>
   <p>Başvurularınız en geç <strong>30 gün</strong> içinde sonuçlandırılır.</p>